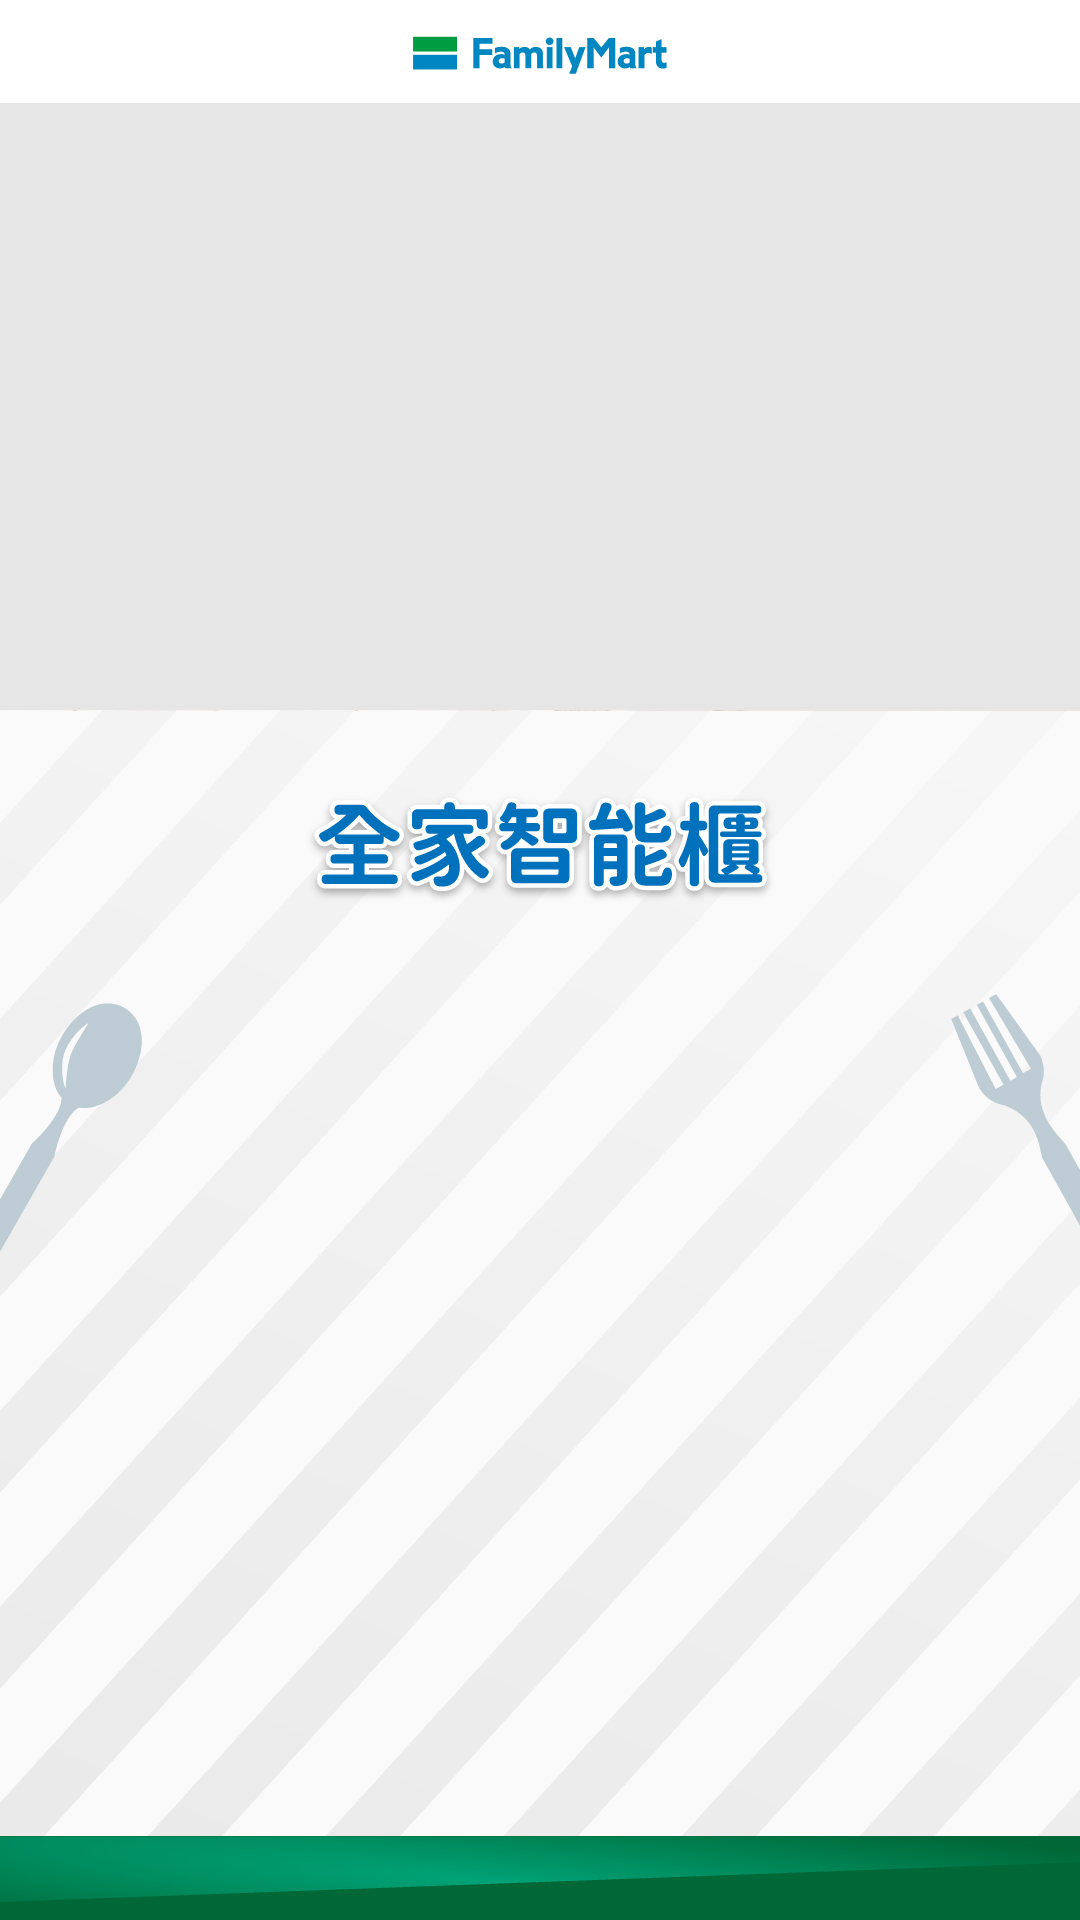
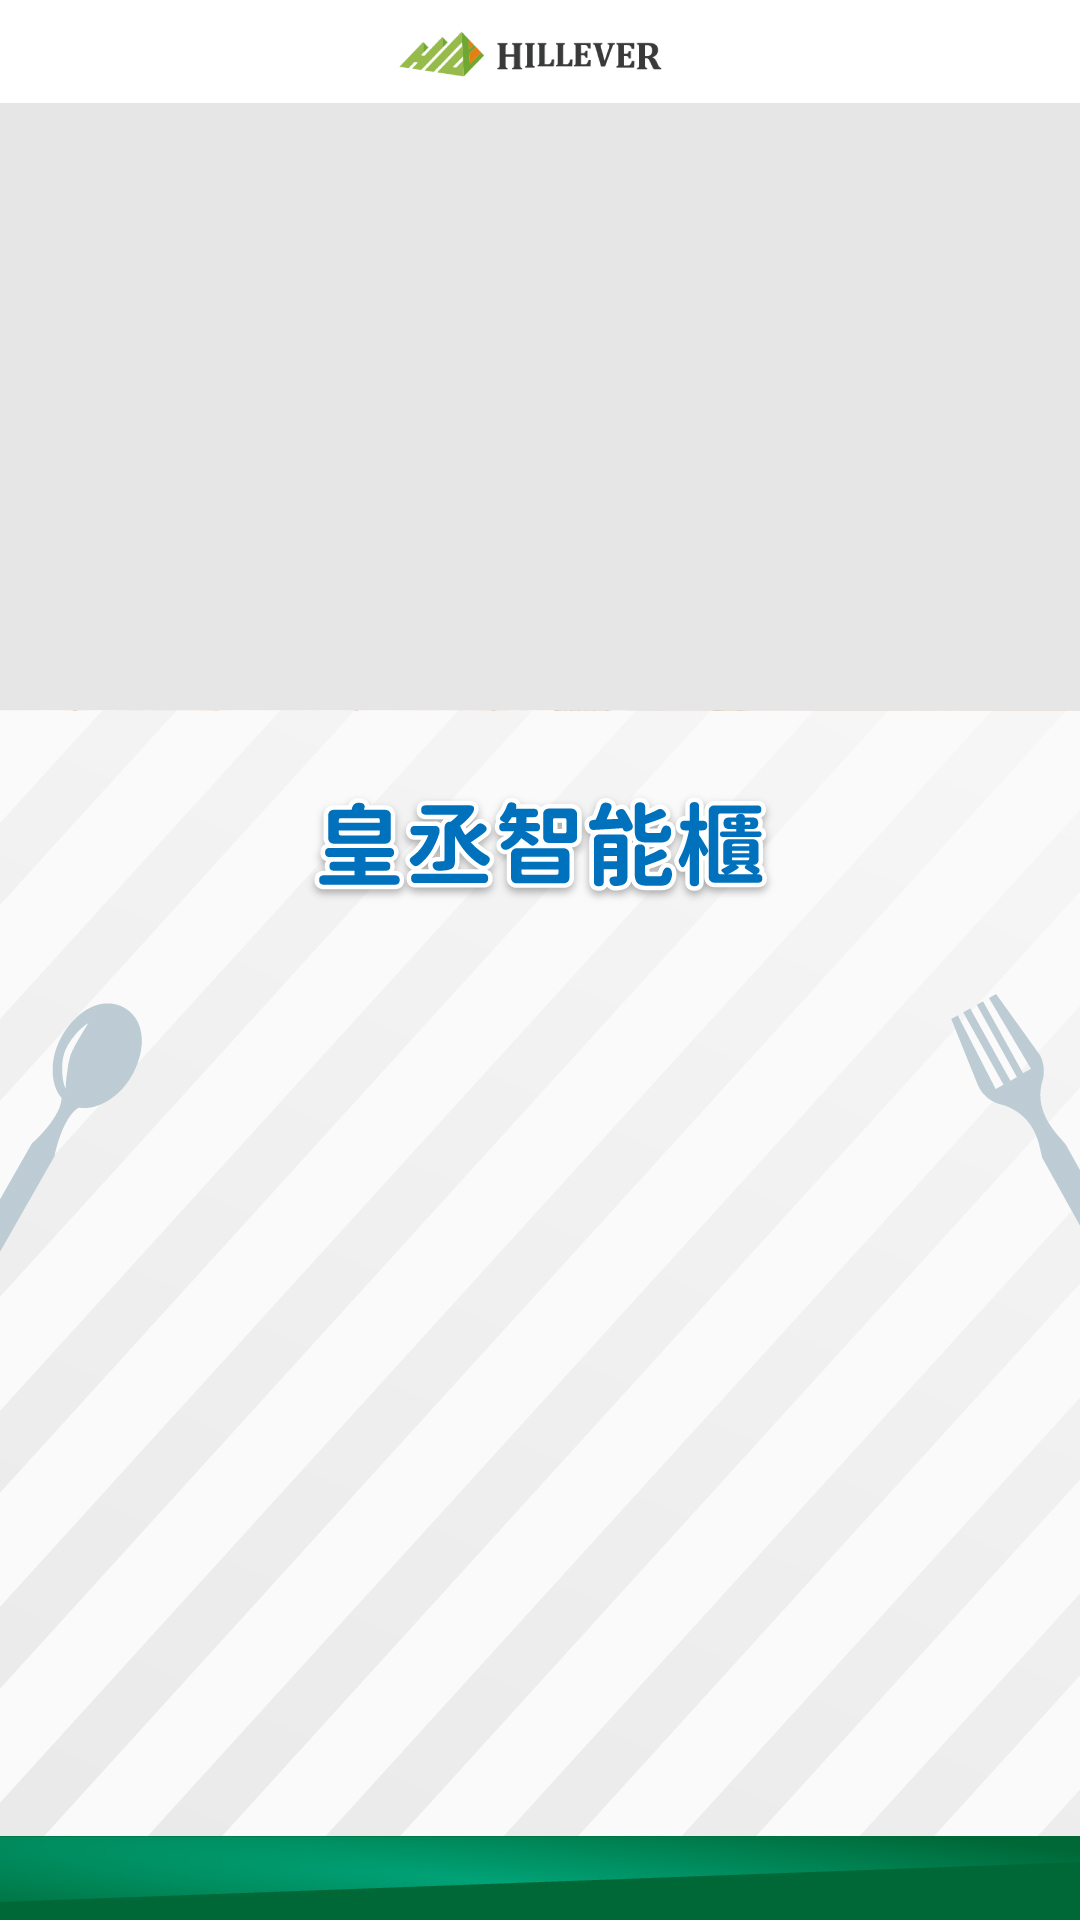
Modify the brand display and hide MyFamiPay.

Changed region(s): [[0.3667, 0.0, 0.6111, 0.0625], [0.275, 0.4062, 0.4583, 0.4688]]

diff --git a/main_window.cpp b/main_window.cpp
@@ -88,6 +88,9 @@ void MainWindow::initUI()
     transparent_stylesheet.append("QPushButton" + transparent_effect);
     transparent_stylesheet.append("QPushButton:pressed" + transparent_effect);
 
+    // initial brand label
+    ui->lbl_brand_upper->setPixmap(QPixmap(resources_path + "_HE.png"));
+
     // initial media player
     QMediaPlayer *player = new QMediaPlayer(this);
     QMediaPlaylist *playlist = new QMediaPlaylist(player);
@@ -281,6 +284,9 @@ void MainWindow::initUI()
     connect(ui->pbtn_payment_creditcard, SIGNAL(released()), this, SLOT(pbtn_payment_option_released()));
     connect(ui->pbtn_payment_easycard, SIGNAL(pressed()), this, SLOT(pbtn_payment_option_pressed()));
     connect(ui->pbtn_payment_easycard, SIGNAL(released()), this, SLOT(pbtn_payment_option_released()));
+    ui->pbtn_payment_easycard->setGeometry(ui->pbtn_payment_creditcard->geometry());
+    ui->pbtn_payment_creditcard->setGeometry(ui->pbtn_payment_famiPay->geometry());
+    ui->pbtn_payment_famiPay->hide();
 
     // initialize payment hint page
     QPixmap payment_hint_bg_pixmap(resources_path + "P6_payment_hint.jpg");
@@ -920,6 +926,18 @@ void MainWindow::page_changed(int index)
         }
         ui->cbBox_port->setCurrentIndex(0);
         break;
+    }
+
+    if (current_page_ == Home ||
+        current_page_ == OnSiteConfirm ||
+        current_page_ == PaymentHint ||
+        current_page_ == EinvoiceHint ||
+        current_page_ == PreOrderHint ||
+        current_page_ == ECPickupHint) {
+        ui->lbl_brand_upper->hide();
+    }
+    else {
+        ui->lbl_brand_upper->show();
     }
 
     if (current_page_ == OnSiteOption ||
